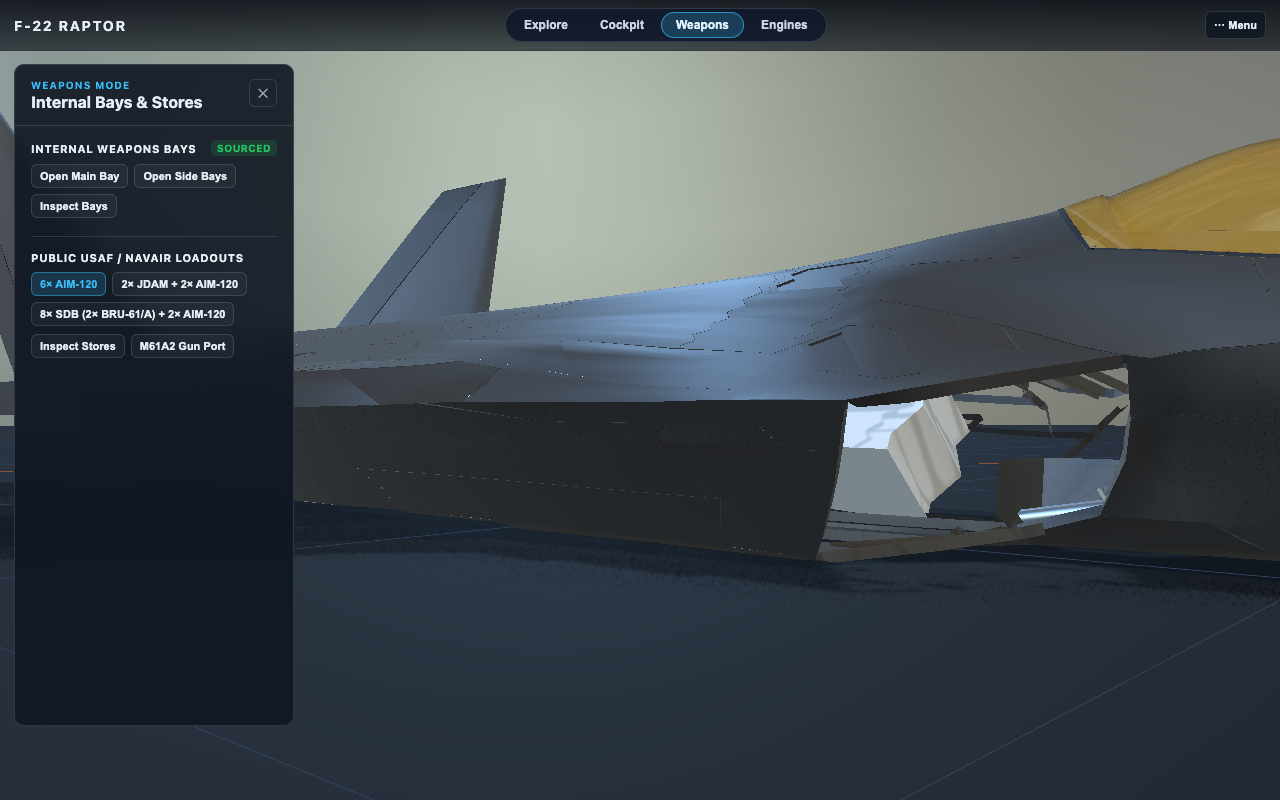
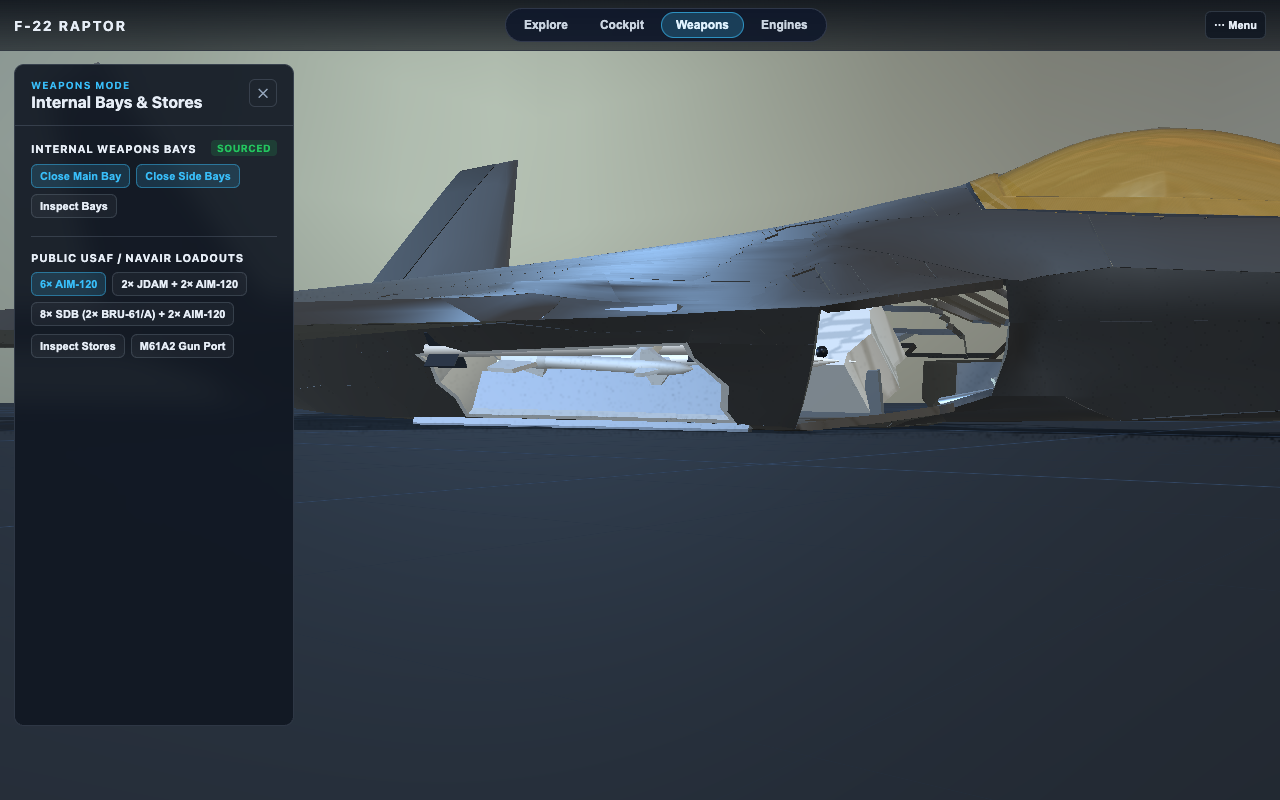
fix(v1.1): auto-fit weapons bays camera, store viewport E2E check & aero-ref IoU rename

diff --git a/src/scene/HangarCanvas.tsx b/src/scene/HangarCanvas.tsx
@@ -112,6 +112,9 @@ function SceneController() {
   const cameraPresetNonce = useExplorerStore((s) => s.cameraPresetNonce);
   const explodeFactor = useExplorerStore((s) => s.explodeFactor);
   const bottomSheetHeightPx = useExplorerStore((s) => s.bottomSheetHeightPx);
+  const mainBayOpen = useExplorerStore((s) => s.mainBayOpen);
+  const sideBaysOpen = useExplorerStore((s) => s.sideBaysOpen);
+  const weaponsLoadout = useExplorerStore((s) => s.weaponsLoadout);
   const rightDrawerWidthPx = useExplorerStore((s) => s.rightDrawerWidthPx);
   const animatingRef = useRef(false);
   const goalPosRef = useRef(new THREE.Vector3(14.5, 6.2, -13.5));
@@ -169,11 +172,53 @@ function SceneController() {
     }
   }, [camera, cameraPreset]);
 
-  // Camera preset transitions
+  // Camera preset transitions (with bounding-box auto-fit for open weapons bays + loaded stores)
   useEffect(() => {
-    if (cameraPresetNonce === 0) return;
+    if (cameraPresetNonce === 0 && cameraPreset !== 'bays') return;
+
+    if (cameraPreset === 'bays') {
+      const box = new THREE.Box3();
+      const baysRoot = scene.getObjectByName('animated-weapons-bays');
+      if (baysRoot) {
+        baysRoot.updateMatrixWorld(true);
+        box.setFromObject(baysRoot);
+      }
+      if (box.isEmpty()) {
+        box.set(new THREE.Vector3(-1.85, 0.25, -2.5), new THREE.Vector3(1.85, 1.0, 2.0));
+      }
+      const center = box.getCenter(new THREE.Vector3());
+      const ext = box.getSize(new THREE.Vector3());
+      const radius = Math.max(1.8, ext.length() * 0.5);
+
+      const persp = camera as THREE.PerspectiveCamera;
+      const fovRad = ((persp.isPerspectiveCamera ? persp.fov : 40) * Math.PI) / 180;
+      const aspect = Math.max(0.35, size.width / Math.max(1, size.height));
+      const halfV = fovRad / 2;
+      const halfH = Math.atan(Math.tan(halfV) * aspect);
+      const minHalf = Math.min(halfV, halfH);
+
+      // Account for mobile bottom sheet or desktop left panel
+      const sheetFrac = bottomSheetHeightPx > 0 ? bottomSheetHeightPx / Math.max(300, size.height) : 0;
+      const fitScale = (size.width < size.height ? 1.38 : 1.25) * (1 + sheetFrac * 0.75);
+      const dist = (radius / Math.sin(minHalf)) * fitScale;
+
+      // Below and outboard (~30° downward look angle toward open bays & stores, clamped above floor)
+      const dir = new THREE.Vector3(0.76, -0.14, -0.63).normalize();
+      goalTargetRef.current.copy(center);
+      // Shift target slightly down on mobile when bottom sheet is open so bays sit in upper viewport
+      if (sheetFrac > 0.05) {
+        goalTargetRef.current.y -= radius * sheetFrac * 0.45;
+      }
+      goalPosRef.current.copy(goalTargetRef.current).addScaledVector(dir, dist);
+      if (goalPosRef.current.y < 0.26) {
+        goalPosRef.current.y = 0.26;
+      }
+      animatingRef.current = true;
+      return;
+    }
+
     const p = CAMERA_PRESETS[cameraPreset];
-    const isCloseView = cameraPreset === 'cockpit' || cameraPreset === 'bays';
+    const isCloseView = cameraPreset === 'cockpit';
     const aspectScale = !isCloseView && size.width < size.height ? 1.48 : 1.0;
     const sheetScale =
       !isCloseView && bottomSheetHeightPx > 0
@@ -188,7 +233,18 @@ function SceneController() {
       .copy(goalTargetRef.current)
       .addScaledVector(dir, aspectScale * sheetScale * explodeScale);
     animatingRef.current = true;
-  }, [cameraPreset, cameraPresetNonce, size.width, size.height, bottomSheetHeightPx]);
+  }, [
+    camera,
+    scene,
+    cameraPreset,
+    cameraPresetNonce,
+    size.width,
+    size.height,
+    bottomSheetHeightPx,
+    mainBayOpen,
+    sideBaysOpen,
+    weaponsLoadout,
+  ]);
 
   // Auto-fit camera bounding box when exploding or when mobile sheet opens/closes
   useEffect(() => {

diff --git a/src/scene/WeaponsBaysDetail.tsx b/src/scene/WeaponsBaysDetail.tsx
@@ -23,7 +23,7 @@ function Aim120Mesh({
   const s = RENDERED_STORE_SPECS.aim120;
   const noseZ = -(s.bodyLengthM / 2 + s.noseLengthM / 2);
   return (
-    <group position={position} onClick={onSelect}>
+    <group position={position} onClick={onSelect} userData={{ loadedStore: true }}>
       <mesh rotation={[Math.PI / 2, 0, 0]}>
         <cylinderGeometry args={[s.radiusM, s.radiusM, s.bodyLengthM, 12]} />
         <meshStandardMaterial color="#dce3ec" metalness={0.3} roughness={0.42} clippingPlanes={clippingPlanes} />
@@ -64,7 +64,7 @@ function Aim9Mesh({
   const s = RENDERED_STORE_SPECS.aim9x;
   const domeZ = -s.bodyLengthM / 2;
   return (
-    <group position={position} onClick={onSelect}>
+    <group position={position} onClick={onSelect} userData={{ loadedStore: true }}>
       <mesh rotation={[Math.PI / 2, 0, 0]}>
         <cylinderGeometry args={[s.radiusM, s.radiusM, s.bodyLengthM, 12]} />
         <meshStandardMaterial color="#e2e8f0" metalness={0.3} roughness={0.4} clippingPlanes={clippingPlanes} />
@@ -106,7 +106,7 @@ function Gbu32JdamMesh({
   const noseZ = -(s.bodyLengthM / 2 + s.noseLengthM / 2);
   const tailZ = s.bodyLengthM / 2 + s.tailLengthM / 2;
   return (
-    <group position={position} onClick={onSelect}>
+    <group position={position} onClick={onSelect} userData={{ loadedStore: true }}>
       <mesh rotation={[Math.PI / 2, 0, 0]}>
         <cylinderGeometry args={[s.radiusM * 0.94, s.radiusM, s.bodyLengthM, 14]} />
         <meshStandardMaterial color="#4b5548" metalness={0.35} roughness={0.58} clippingPlanes={clippingPlanes} />
@@ -155,7 +155,7 @@ function Gbu39SdbMesh({
   const s = RENDERED_STORE_SPECS.gbu39;
   const noseZ = -(s.bodyLengthM / 2 + s.noseLengthM / 2);
   return (
-    <group position={position} onClick={onSelect}>
+    <group position={position} onClick={onSelect} userData={{ loadedStore: true }}>
       <mesh rotation={[Math.PI / 2, 0, 0]}>
         <cylinderGeometry args={[s.radiusM, s.radiusM, s.bodyLengthM, 12]} />
         <meshStandardMaterial color="#94a3b8" metalness={0.45} roughness={0.42} clippingPlanes={clippingPlanes} />
@@ -278,7 +278,7 @@ export function WeaponsBaysDetail({
   };
 
   return (
-    <group name="animated-weapons-bays">
+    <group name="animated-weapons-bays" position={[0, -0.68, 0]}>
       {/* Main Weapons Bay Doors + Distinguishable Clickable Stores */}
       {mainBayOpen && (
         <>

diff --git a/src/scene/debugBridge.ts b/src/scene/debugBridge.ts
@@ -262,5 +262,58 @@ export function installDebugHook(): void {
       });
       return out;
     },
+    getLoadedStoresViewportCoverage() {
+      if (!activeScene || !activeCamera || !activeCanvas) {
+        return { count: 0, minCoverage: 0, avgCoverage: 0, coverages: [] as number[] };
+      }
+      const baysRoot = activeScene.getObjectByName('animated-weapons-bays');
+      if (!baysRoot) {
+        return { count: 0, minCoverage: 0, avgCoverage: 0, coverages: [] as number[] };
+      }
+      activeCamera.updateMatrixWorld();
+      baysRoot.updateMatrixWorld(true);
+      const rect = activeCanvas.getBoundingClientRect();
+      const coverages: number[] = [];
+
+      baysRoot.traverse((obj) => {
+        if (!obj.userData?.loadedStore) return;
+        SCRATCH_BOX3.setFromObject(obj);
+        if (SCRATCH_BOX3.isEmpty()) return;
+
+        let minX = Infinity;
+        let maxX = -Infinity;
+        let minY = Infinity;
+        let maxY = -Infinity;
+        const { min, max } = SCRATCH_BOX3;
+        for (let ix = 0; ix < 2; ix++) {
+          for (let iy = 0; iy < 2; iy++) {
+            for (let iz = 0; iz < 2; iz++) {
+              SCRATCH_CORNER.set(
+                ix ? max.x : min.x,
+                iy ? max.y : min.y,
+                iz ? max.z : min.z
+              ).project(activeCamera!);
+              const sx = rect.left + ((SCRATCH_CORNER.x + 1) / 2) * rect.width;
+              const sy = rect.top + ((-SCRATCH_CORNER.y + 1) / 2) * rect.height;
+              if (sx < minX) minX = sx;
+              if (sx > maxX) maxX = sx;
+              if (sy < minY) minY = sy;
+              if (sy > maxY) maxY = sy;
+            }
+          }
+        }
+        const totalArea = Math.max(1e-6, (maxX - minX) * (maxY - minY));
+        const interW = Math.max(0, Math.min(maxX, rect.right) - Math.max(minX, rect.left));
+        const interH = Math.max(0, Math.min(maxY, rect.bottom) - Math.max(minY, rect.top));
+        coverages.push((interW * interH) / totalArea);
+      });
+
+      const minCoverage = coverages.length > 0 ? Math.min(...coverages) : 0;
+      const avgCoverage =
+        coverages.length > 0
+          ? coverages.reduce((sum, v) => sum + v, 0) / coverages.length
+          : 0;
+      return { count: coverages.length, minCoverage, avgCoverage, coverages };
+    },
   };
 }

diff --git a/e2e/smoke.spec.ts b/e2e/smoke.spec.ts
@@ -72,12 +72,37 @@ test.describe('v1.1 Desktop Mode UI, 70 Parts, Plume Gradient, Credits & Deep Li
     await expect(page.getByTestId('resume-tour-anatomy')).toBeVisible();
     await page.getByTestId('overflow-menu-btn').click();
 
-    // 4. Weapons mode: open main & side bays + screenshot
+    // 4. Weapons mode: open main & side bays, verify >= 80% projected store bbox inside viewport for all 3 loadouts
     await page.getByTestId('mode-weapons').click();
     await expect(page.getByTestId('mode-panel-weapons')).toBeVisible();
     await page.getByTestId('main-bay-toggle-btn').click();
     await page.getByTestId('side-bays-toggle-btn').click();
-    await page.waitForTimeout(850);
+    await page.getByTestId('bays-cam-btn').click();
+    for (const loadout of ['air-to-air', 'jdam', 'sdb'] as const) {
+      await page.getByTestId(`loadout-${loadout}`).click();
+      await page.waitForTimeout(750);
+      const cov = await page.evaluate(() => {
+        const dbg = (
+          window as unknown as {
+            __f22debug: {
+              getLoadedStoresViewportCoverage: () => {
+                count: number;
+                minCoverage: number;
+                avgCoverage: number;
+              };
+            };
+          }
+        ).__f22debug;
+        return dbg.getLoadedStoresViewportCoverage();
+      });
+      expect(cov.count, `Loadout ${loadout} must have loaded stores`).toBeGreaterThanOrEqual(6);
+      expect(
+        cov.minCoverage,
+        `Loadout ${loadout} min store viewport coverage (${(cov.minCoverage * 100).toFixed(1)}%) must be >= 80%`
+      ).toBeGreaterThanOrEqual(0.8);
+    }
+    await page.getByTestId('loadout-air-to-air').click();
+    await page.waitForTimeout(650);
     await savePhaseScreenshot(page, 'docs/screenshots/v1.1/desktop-weapons-bays.png');
 
     // 5. Engines mode: inline thrust readout inside Engines panel (no separate floating HUD)

diff --git a/e2e/mobile.spec.ts b/e2e/mobile.spec.ts
@@ -66,6 +66,36 @@ test.describe('v1.1 Mobile Bottom Mode Bar, Single Sheet & Engine Running Layout
     await expect(page.getByTestId('mode-panel-engines')).toHaveCount(0);
     await expect(page.getByTestId('engine-hud-overlay')).toHaveCount(0);
 
+    // Weapons mode on mobile: open bays, verify >= 80% store viewport coverage & capture mobile bays screenshot
+    await page.evaluate(() => {
+      const dbg = (
+        window as unknown as { __f22debug: { setEnginePreset: (p: string) => void } }
+      ).__f22debug;
+      dbg.setEnginePreset('off');
+    });
+    await page.getByTestId('mobile-mode-weapons').click();
+    await expect(page.getByTestId('mode-panel-weapons')).toBeVisible();
+    await page.getByTestId('main-bay-toggle-btn').click();
+    await page.getByTestId('side-bays-toggle-btn').click();
+    await page.getByTestId('bays-cam-btn').click();
+    await page.waitForTimeout(850);
+    const mobileCov = await page.evaluate(() => {
+      const dbg = (
+        window as unknown as {
+          __f22debug: {
+            getLoadedStoresViewportCoverage: () => { count: number; minCoverage: number };
+          };
+        }
+      ).__f22debug;
+      return dbg.getLoadedStoresViewportCoverage();
+    });
+    expect(mobileCov.count).toBeGreaterThanOrEqual(8);
+    expect(mobileCov.minCoverage).toBeGreaterThanOrEqual(0.8);
+    await savePhaseScreenshot(
+      page,
+      `docs/screenshots/v1.1/mobile-${testInfo.project.name}-weapons-bays.png`
+    );
+
     expect(pageErrors).toEqual([]);
   });
 });

diff --git a/tests/aero-reference-silhouette-iou.test.ts b/tests/aero-reference-silhouette-iou.test.ts
@@ -92,7 +92,7 @@ function computeIoU(a: Uint8Array, b: Uint8Array): number {
   return union === 0 ? 0 : inter / union;
 }
 
-describe('F-22 Orthographic Silhouette Regression (ASSUMED hand-authored reference-outlines.json, IoU >= 0.85)', () => {
+describe('Aero Reference Geometry (f22Geometry.ts) Orthographic Silhouette Regression — NOT the visual GLB (ASSUMED hand-authored reference-outlines.json, IoU >= 0.85)', () => {
   it('achieves Top-view (planform) IoU >= 0.85 against hand-authored reference outline', () => {
     const bounds: Bounds2D = { minU: -7.5, maxU: 7.5, minV: -10.2, maxV: 10.2 };
     const modelMask = rasterizeModelView(bounds, (x, _y, z) => [x, z]);

diff --git a/README.md b/README.md
@@ -51,7 +51,7 @@ Much of the F-22 Raptor is classified. Rather than fabricating figures or hiding
 pnpm install
 pnpm dev              # Start Vite dev server
 pnpm typecheck        # TypeScript strict check
-pnpm test             # Vitest unit & invariant suite (AST literal guard, SAT collisions, IoU, schema, engine sim)
+pnpm test             # Vitest unit & invariant suite (AST literal guard, SAT collisions, aero-ref IoU, schema, engine sim)
 HEADLESS=1 pnpm e2e   # Playwright desktop + mobile E2E suite (--reporter=list)
 pnpm build            # Production build
 pnpm docs:assumptions # Regenerate docs/ASSUMPTIONS.md from src/sim/config/registry.ts
